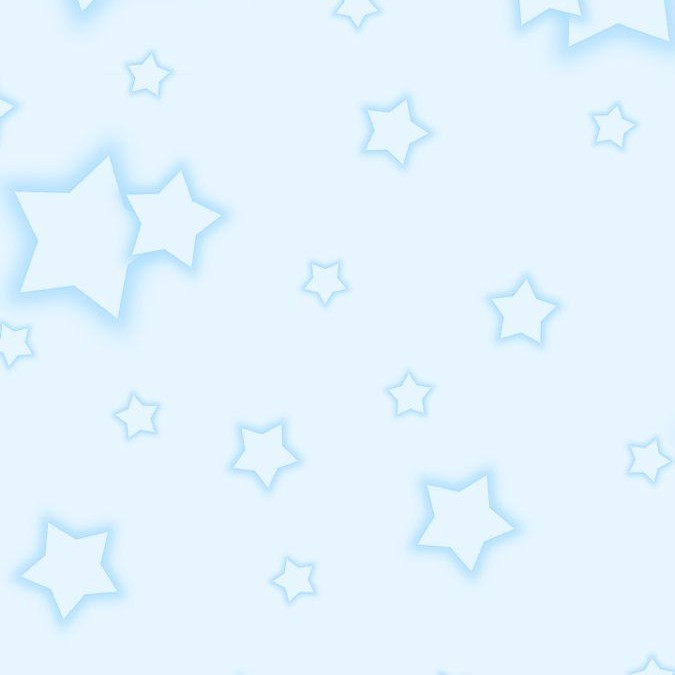
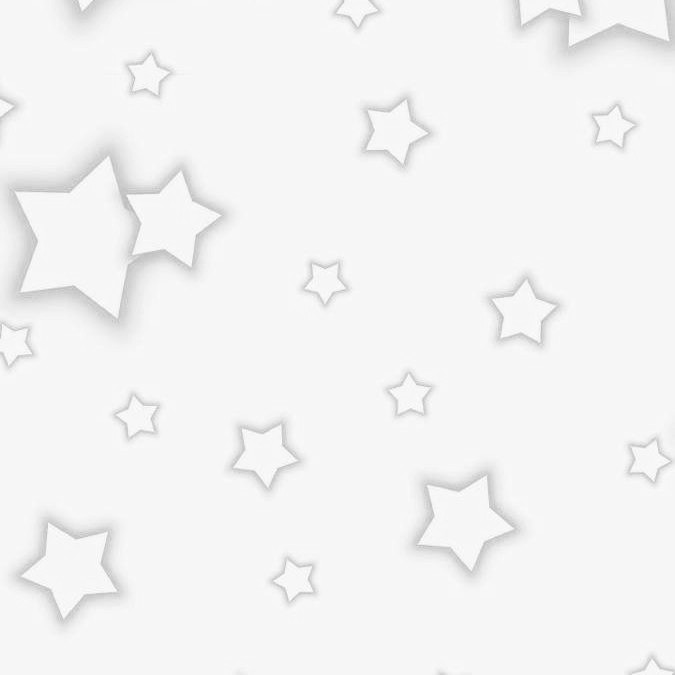
upade

diff --git a/index.html b/index.html
@@ -16,13 +16,16 @@
 </header>
 
 <nav>
-    <a href="https://ex1-mh3t.vercel.app/">平時作業</a>
-    <a href="https://www.google.com/">期中作業</a>
-    <a href="https://www.google.com/">期末作業</a>
+    <a href="#homework">平時作業</a>
+    <a href="#midterm">期中作業</a>
+    <a href="#final">期末作業</a>
  </nav>
     
 <section>
+
+    <section id="homework">
     <h1>平時作業</h1>
+    </section>
 
     <article>
         <a href="https://ex1-tdqt.vercel.app/">

diff --git a/css/ex1.css b/css/ex1.css
@@ -1,5 +1,9 @@
 @import url('https://fonts.googleapis.com/css2?family=Golos+Text:wght@400..900&family=Roboto:ital,wght@0,100..900;1,100..900&display=swap');
 
+html {
+  scroll-behavior: smooth;
+}
+
 body{
 	text-align: center; /* 文字置中 */
     background: #ffe4b8;
